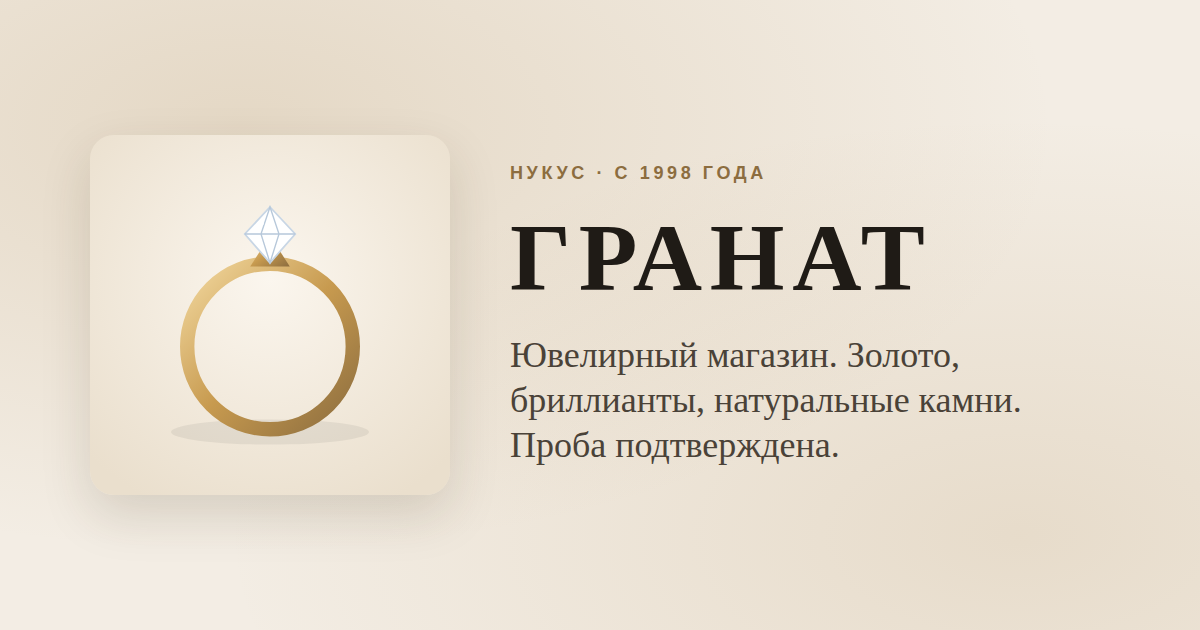
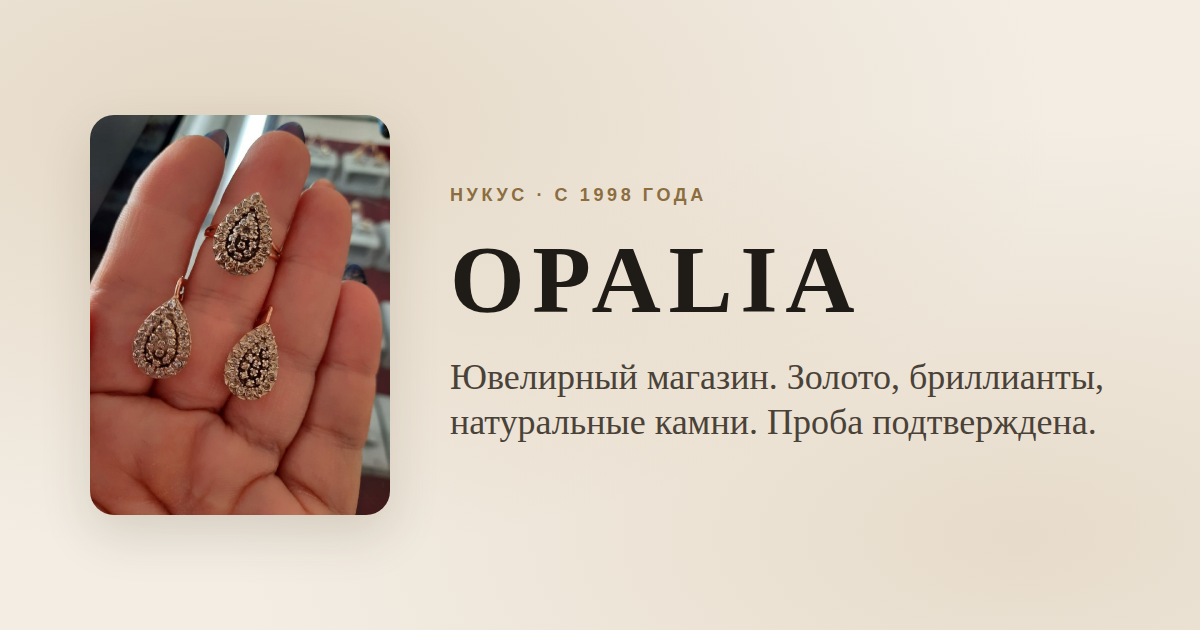
Rename the shop on the site to Opalia
Logo, page titles, texts, footer and link preview image now use Opalia;
the preview image shows a real product photo.

Claude-Session: https://claude.ai/code/session_01XjeLNx1r3KLF3zeG9UV2Vq

diff --git a/js/i18n.js b/js/i18n.js
@@ -6,9 +6,9 @@
  */
 const I18N = {
   ru: {
-    "brand": "Гранат",
-    "meta.title": "Гранат — ювелирный магазин в Нукусе",
-    "meta.description": "Ювелирный магазин «Гранат» в Нукусе с 1998 года: золотые комплекты, серьги, кольца, кулоны и цепочки.",
+    "brand": "Opalia",
+    "meta.title": "Opalia — ювелирный магазин в Нукусе",
+    "meta.description": "Ювелирный магазин «Opalia» в Нукусе с 1998 года: золотые комплекты, серьги, кольца, кулоны и цепочки.",
     "nav.catalog": "Каталог",
     "nav.about": "О нас",
     "nav.contacts": "Контакты",
@@ -34,7 +34,7 @@ const I18N = {
     "card.more": "Подробнее: {name}",
     "card.add": "Добавить в корзину",
     "about.title": "О нас",
-    "about.text": "Магазин «Гранат» работает в Нукусе с 1998 года. За это время у нас купили украшения тысячи довольных клиентов. Проба каждого изделия подтверждена.",
+    "about.text": "Магазин «Opalia» работает в Нукусе с 1998 года. За это время у нас купили украшения тысячи довольных клиентов. Проба каждого изделия подтверждена.",
     "about.f1": "С 1998 года",
     "about.f1text": "тысячи довольных клиентов",
     "about.f2": "Проба",
@@ -45,7 +45,7 @@ const I18N = {
     "about.f4text": "Нукус, Орайлык базар",
     "contacts.title": "Контакты",
     "contacts.text": "Чтобы заказать украшение или задать вопрос, напишите нам:",
-    "footer.brand": "Гранат, Нукус",
+    "footer.brand": "Opalia, Нукус",
     "footer.rights": "Все права защищены.",
     "unit.gram": "г",
     "modal.close": "Закрыть",
@@ -77,9 +77,9 @@ const I18N = {
     "order.many": "Здравствуйте! Хочу оформить заказ:",
   },
   uz: {
-    "brand": "Granat",
-    "meta.title": "Granat — Nukusdagi zargarlik do'koni",
-    "meta.description": "1998-yildan beri Nukusdagi «Granat» zargarlik do'koni: oltin to'plamlar, sirg'alar, uzuklar, kulonlar va zanjirlar.",
+    "brand": "Opalia",
+    "meta.title": "Opalia — Nukusdagi zargarlik do'koni",
+    "meta.description": "1998-yildan beri Nukusdagi «Opalia» zargarlik do'koni: oltin to'plamlar, sirg'alar, uzuklar, kulonlar va zanjirlar.",
     "nav.catalog": "Katalog",
     "nav.about": "Biz haqimizda",
     "nav.contacts": "Aloqa",
@@ -105,7 +105,7 @@ const I18N = {
     "card.more": "Batafsil: {name}",
     "card.add": "Savatga qo'shish",
     "about.title": "Biz haqimizda",
-    "about.text": "«Granat» do'koni 1998-yildan beri Nukusda ishlaydi. Shu vaqt ichida minglab mamnun mijozlar bizdan zargarlik buyumlari xarid qildi. Har bir buyumning probasi tasdiqlangan.",
+    "about.text": "«Opalia» do'koni 1998-yildan beri Nukusda ishlaydi. Shu vaqt ichida minglab mamnun mijozlar bizdan zargarlik buyumlari xarid qildi. Har bir buyumning probasi tasdiqlangan.",
     "about.f1": "1998-yildan beri",
     "about.f1text": "minglab mamnun mijozlar",
     "about.f2": "Proba",
@@ -116,7 +116,7 @@ const I18N = {
     "about.f4text": "Nukus, Orayliq bozori",
     "contacts.title": "Aloqa",
     "contacts.text": "Bezak buyurtma qilish yoki savol berish uchun bizga yozing:",
-    "footer.brand": "Granat, Nukus",
+    "footer.brand": "Opalia, Nukus",
     "footer.rights": "Barcha huquqlar himoyalangan.",
     "unit.gram": "g",
     "modal.close": "Yopish",

diff --git a/index.html b/index.html
@@ -3,8 +3,8 @@
 <head>
   <meta charset="utf-8" />
   <meta name="viewport" content="width=device-width, initial-scale=1" />
-  <title>Гранат — ювелирный магазин в Нукусе</title>
-  <meta name="description" content="Ювелирный магазин «Гранат» в Нукусе с 1998 года: золотые комплекты, серьги, кольца, кулоны и цепочки." />
+  <title>Opalia — ювелирный магазин в Нукусе</title>
+  <meta name="description" content="Ювелирный магазин «Opalia» в Нукусе с 1998 года: золотые комплекты, серьги, кольца, кулоны и цепочки." />
   <meta name="theme-color" content="#fbf8f4" />
   <link rel="icon" href="images/favicon.svg" type="image/svg+xml" />
   <link rel="apple-touch-icon" href="images/apple-touch-icon.png" />
@@ -12,8 +12,8 @@
   <!-- Превью ссылки в Telegram, WhatsApp, соцсетях.
        Если адрес сайта поменяется (свой домен), замените его в og:url и og:image. -->
   <meta property="og:type" content="website" />
-  <meta property="og:site_name" content="Гранат" />
-  <meta property="og:title" content="Гранат — ювелирный магазин в Нукусе" />
+  <meta property="og:site_name" content="Opalia" />
+  <meta property="og:title" content="Opalia — ювелирный магазин в Нукусе" />
   <meta property="og:description" content="Работаем с 1998 года. Золото, бриллианты, натуральные камни. Проба подтверждена." />
   <meta property="og:url" content="https://costesso-dev.github.io/Opalia/" />
   <meta property="og:image" content="https://costesso-dev.github.io/Opalia/images/og-image.png" />
@@ -29,7 +29,7 @@
 <body>
   <header class="header">
     <div class="container header__inner">
-      <a href="#" class="logo" data-i18n="brand">Гранат</a>
+      <a href="#" class="logo" data-i18n="brand">Opalia</a>
       <nav class="nav" id="nav">
         <a href="#catalog" data-i18n="nav.catalog">Каталог</a>
         <a href="#about" data-i18n="nav.about">О нас</a>
@@ -84,7 +84,7 @@
       <div class="container about">
         <div>
           <h2 class="section__title" data-i18n="about.title">О нас</h2>
-          <p data-i18n="about.text">Магазин «Гранат» работает в Нукусе с 1998 года. За это время у нас купили украшения тысячи довольных клиентов. Проба каждого изделия подтверждена.</p>
+          <p data-i18n="about.text">Магазин «Opalia» работает в Нукусе с 1998 года. За это время у нас купили украшения тысячи довольных клиентов. Проба каждого изделия подтверждена.</p>
         </div>
         <ul class="features">
           <li><strong data-i18n="about.f1">С 1998 года</strong><span data-i18n="about.f1text">тысячи довольных клиентов</span></li>
@@ -110,7 +110,7 @@
   </main>
 
   <footer class="footer">
-    <div class="container">© <span id="year"></span> <span data-i18n="footer.brand">Гранат, Нукус</span>. <span data-i18n="footer.rights">Все права защищены.</span></div>
+    <div class="container">© <span id="year"></span> <span data-i18n="footer.brand">Opalia, Нукус</span>. <span data-i18n="footer.rights">Все права защищены.</span></div>
   </footer>
 
   <!-- Окно с подробным описанием товара -->

diff --git a/js/config.js b/js/config.js
@@ -4,7 +4,7 @@
  * Если какого-то контакта нет, оставьте пустые кавычки "" — кнопка не появится.
  */
 const SHOP = {
-  name: "Гранат",
+  name: "Opalia",
   // Номер для WhatsApp — только цифры, с кодом страны, без «+»
   whatsapp: "",
   // Имя пользователя Telegram без «@»

diff --git a/js/main.js b/js/main.js
@@ -3,8 +3,8 @@
 
   const $ = (sel) => document.querySelector(sel);
   const $$ = (sel) => document.querySelectorAll(sel);
-  const CART_KEY = "granat-cart";
-  const LANG_KEY = "granat-lang";
+  const CART_KEY = "opalia-cart";
+  const LANG_KEY = "opalia-lang";
   const PAGE_SIZE = 12;
   const LANGS = Object.keys(I18N);
 

diff --git a/README.md b/README.md
@@ -1,4 +1,4 @@
-# «Гранат» — сайт ювелирного магазина в Нукусе
+# «Opalia» — сайт ювелирного магазина в Нукусе
 
 Сайт: **https://costesso-dev.github.io/Opalia/**
 
@@ -82,7 +82,7 @@ python3 tools/import_telegram.py
 
 ### Свой домен
 
-Домен (например, `granat.uz`) покупается у регистратора и связывается
+Домен (например, `opalia.uz`) покупается у регистратора и связывается
 с GitHub Pages в два шага:
 
 1. В панели регистратора, в настройках DNS домена, добавьте записи:
